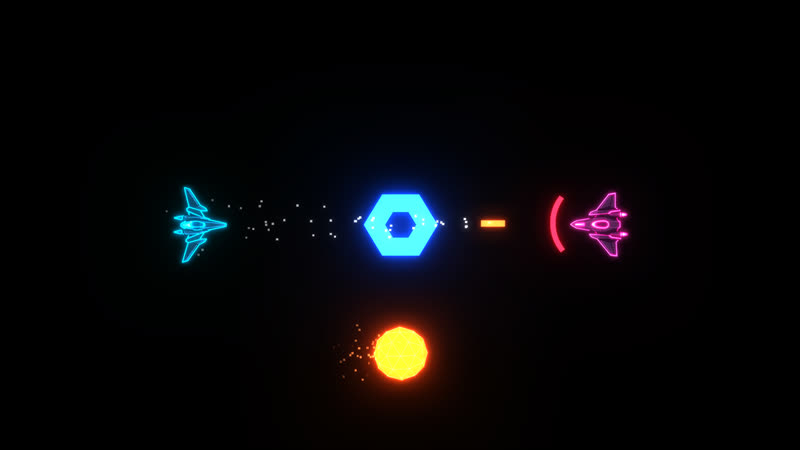
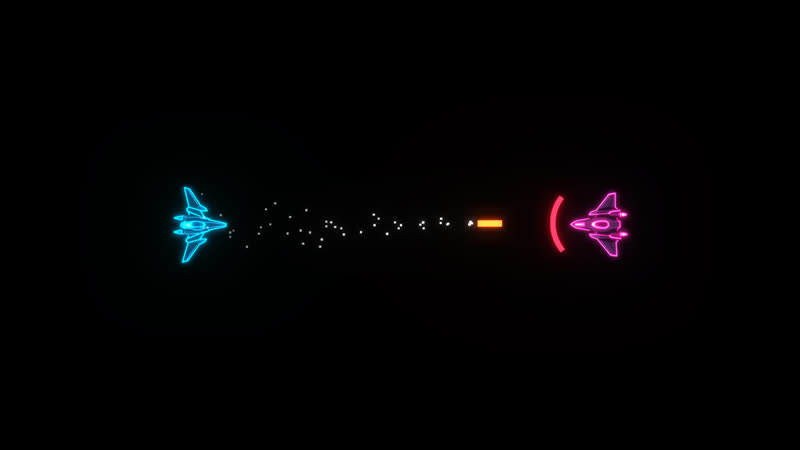
docs(weapons): strip the arena furniture out of the weapon close-ups
The crate, boost pads, asteroids and a burning rock crowded every shot. Each
one is recaptured with the scene reduced to the two ships and the weapon's own
effect, so the special is the only thing in frame.

Claude-Session: https://claude.ai/code/session_01J4dWTk6Yhbzf1WcEchCqZR

Changed region(s): [[0.4062, 0.3422, 0.6562, 0.9333], [0.3125, 0.4978, 0.3438, 0.5289]]

diff --git a/GAMEPLAY.md b/GAMEPLAY.md
@@ -79,7 +79,7 @@ Four weapon crates sit in the arena at all times, one per quadrant. Grabbing one
 
 ### Every special, up close
 
-Each shot is the weapon firing in the sandbox (`combat.html`), cyan ship on the left, magenta target on the right.
+Each shot is the weapon firing in the sandbox (`combat.html`), stripped to the two ships and the effect itself.
 
 | | | |
 |---|---|---|
